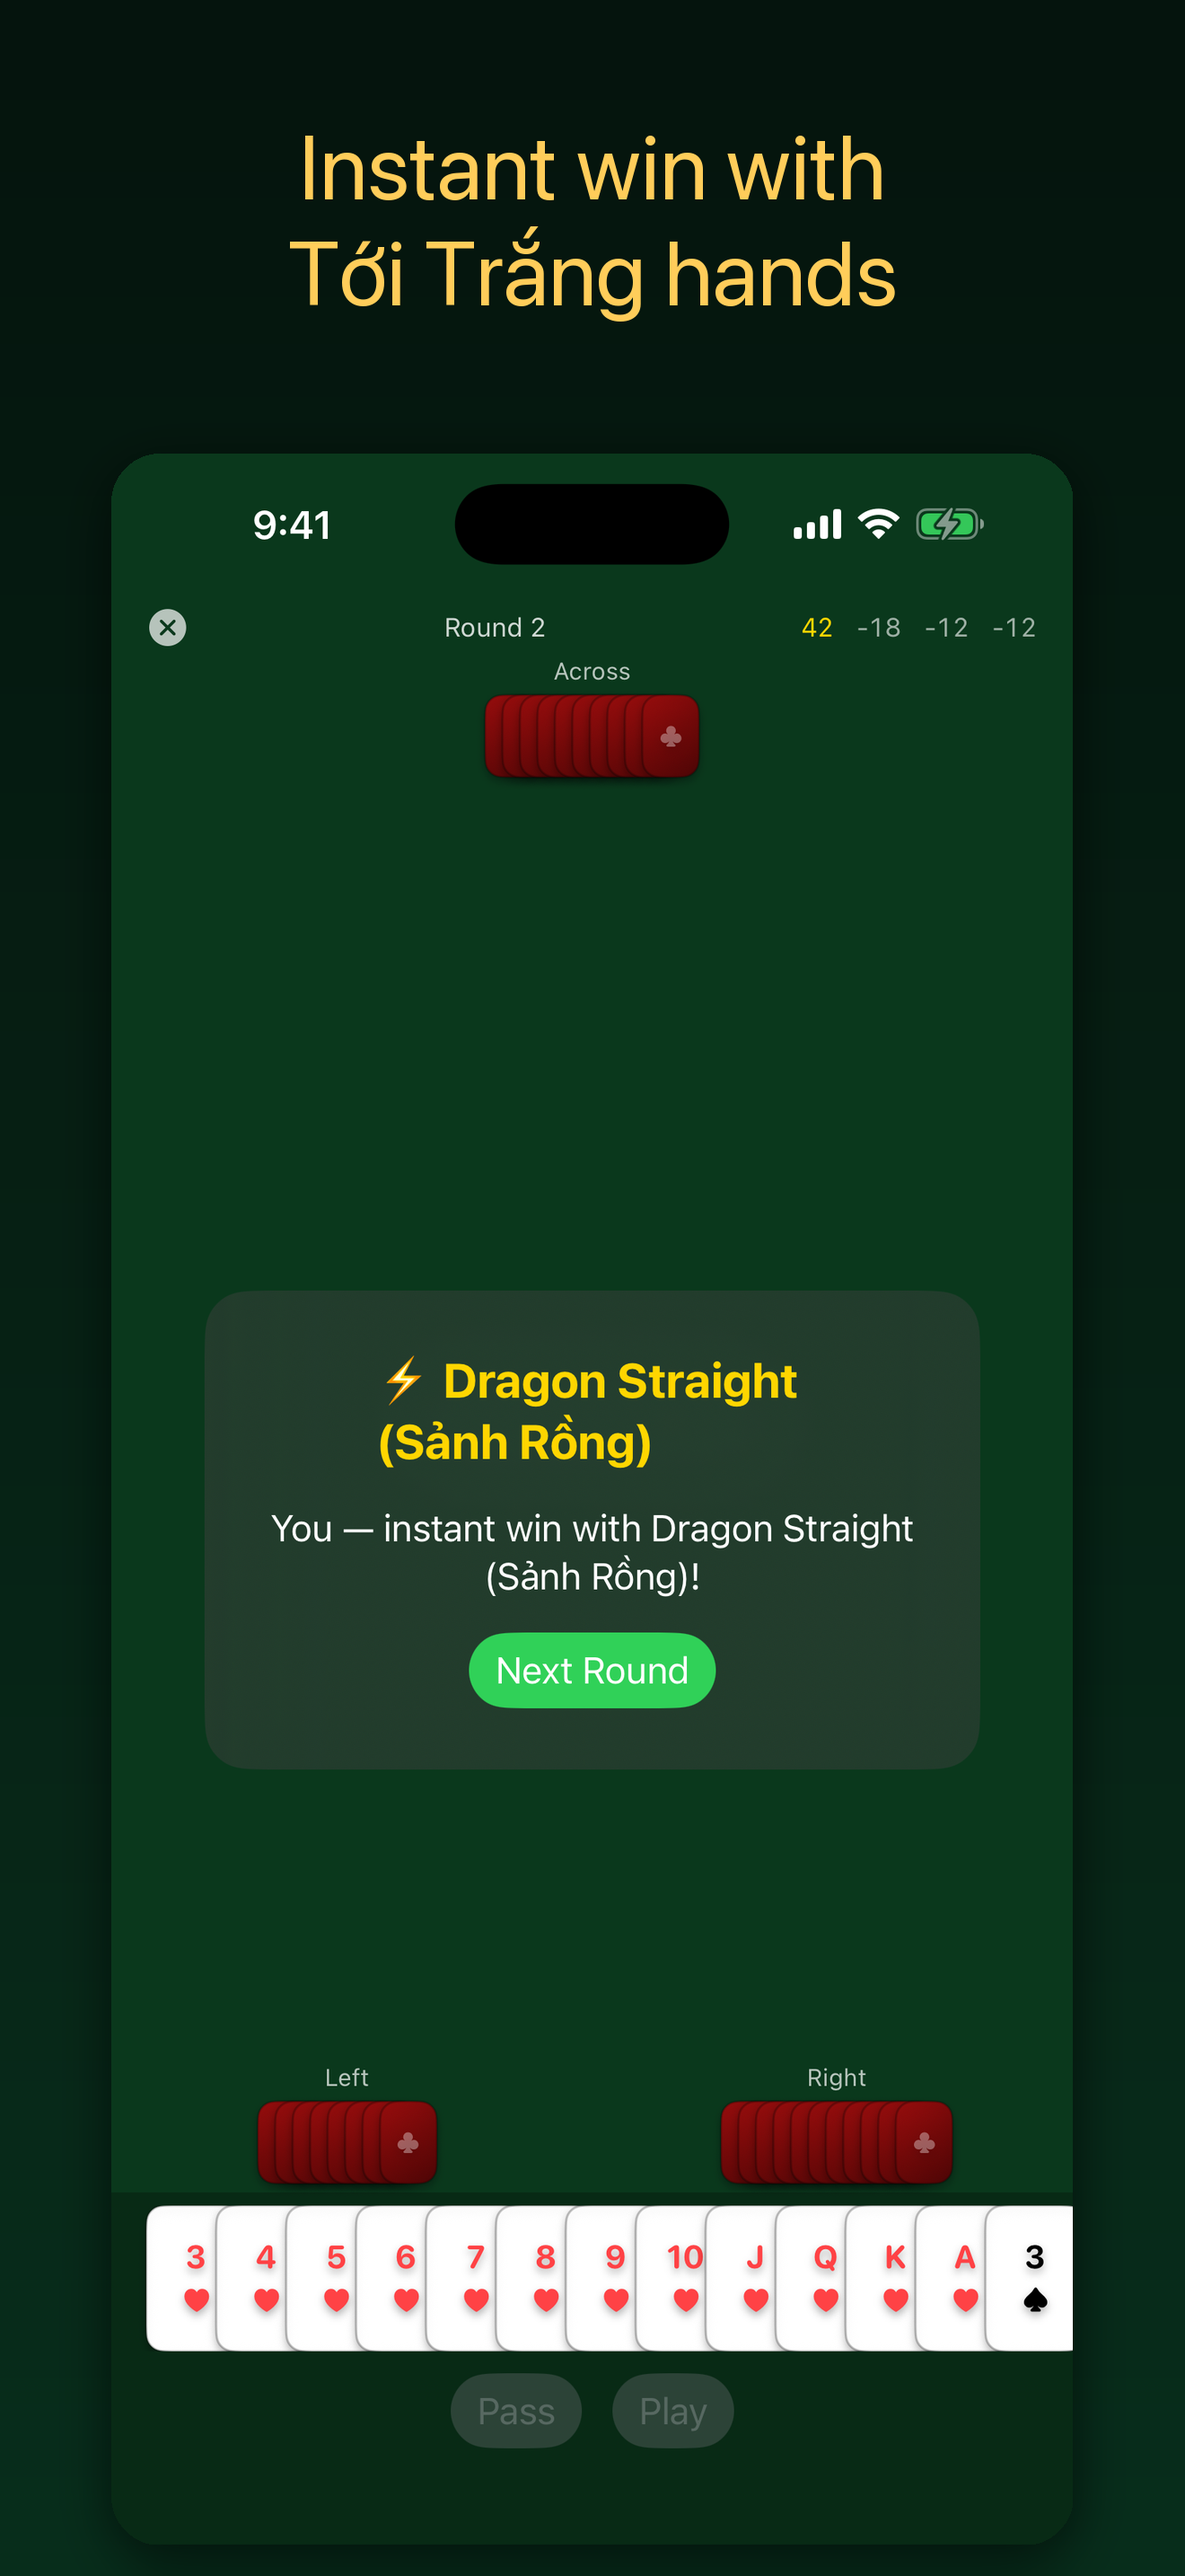
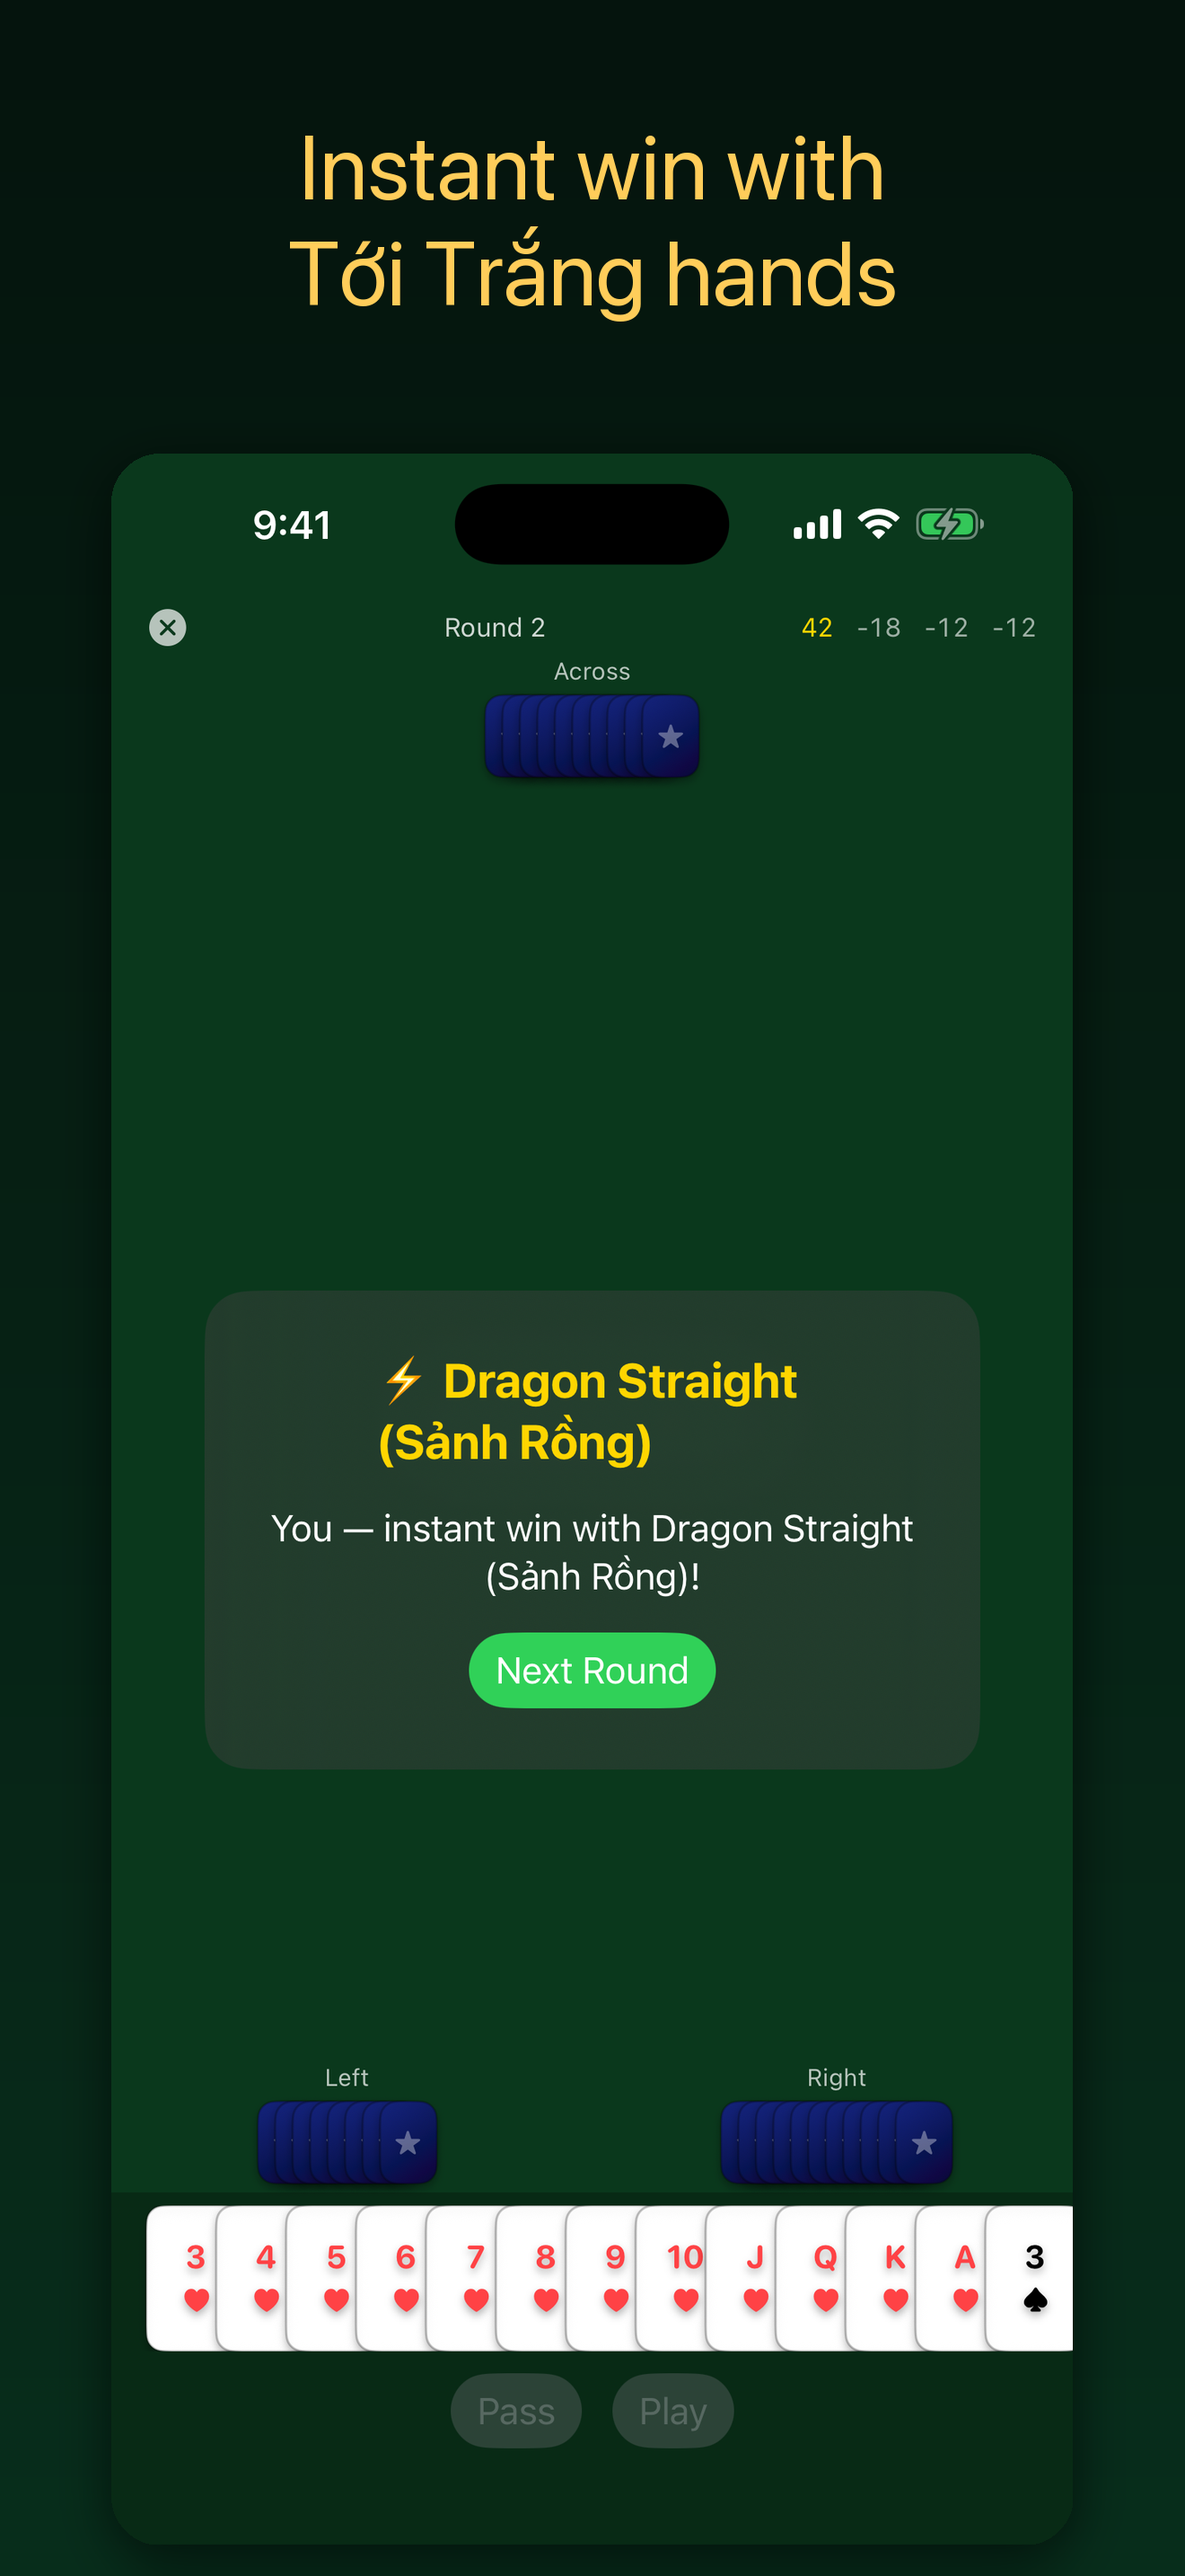
Second polish pass: re-verify card-back Pro feature, recapture stale screenshots, refresh ASO
Re-verified live in Simulator (not just code review) that the card-back Pro feature from the
2026-08-09 pass genuinely works end-to-end: picker renders in UpgradeView, selecting Royal Blue
actually changes opponents' face-down card rendering in GameView, and free users never see the
picker (gated behind purchases.isPro).

Fixed: screenshots/final/{en,vi}/04-upgrade.png were stale, predating the card-back picker;
recaptured all 10 shots. en-US App Store subtitle was accidentally Vietnamese (copy-paste from
vi); fixed to "Real Rules, Offline vs AI". Added the card-back feature to description/promo copy
in both locales since it wasn't mentioned anywhere despite being a real differentiator now.
Refreshed en-US keywords to drop name-redundant terms and add diaspora-relevant Vietnamese terms.

Version bump 1.0.1 -> 1.0.2 (build 3 -> 4); project.yml has both a project-level and
target-level MARKETING_VERSION/CURRENT_PROJECT_VERSION block, target-level wins, both updated
this time (project-level was silently inert on a previous pass).

Claude-Session: https://claude.ai/code/session_01VsdrBUt79dm3oQQCmfugXC

Changed region(s): [[0.5902, 0.8068, 0.8076, 0.8689], [0.4038, 0.2483, 0.5902, 0.3103], [0.2174, 0.8068, 0.3727, 0.8689]]

diff --git a/CLAUDE.md b/CLAUDE.md
@@ -8,15 +8,88 @@ background, but **do not assume its ruleset applies here**. The two games share 
 structure (4 players, combo-beating shedding, tới trắng instant wins, StoreKit Pro unlock,
 true bilingual UI) but the actual game logic genuinely differs in several places — see below.
 
-**Status: 🟡 READY FOR RESUBMISSION AFTER 2026-08-18 (pending Apple's Guideline 5.6 hold).**
-The whole developer account (19 apps, this one included) got hit with a Guideline 5.6
-"Developer Code of Conduct — Review Suspended" account-level flag, almost certainly
-triggered by submitting ~19 similar template-style apps within an 8-day window
-(2026-08-01–2026-08-08). Resubmission is hard-blocked until 2026-08-18 — do not attempt
-any App Store Connect action before then. Prior ASC state (now stale): app id `6796833065`,
-version `1.0.0` (id `3e15840d-4255-48f1-83fc-420fe8cf4ddf`), build
-`d8799eca-0a28-4ca1-be15-ebcd724bf213` attached, reviewSubmission
-`f59cb5d1-f8a5-4b84-b086-99e25942affd`. Release type: automatic (`AFTER_APPROVAL`).
+**Status: 🟡 READY FOR RESUBMISSION — scheduled batch 4, 2026-08-28 (pending Apple's Guideline
+5.6 hold clearing 2026-08-18).** The whole developer account (19 apps, this one included) got
+hit with a Guideline 5.6 "Developer Code of Conduct — Review Suspended" account-level flag,
+almost certainly triggered by submitting ~19 similar template-style apps within an 8-day window
+(2026-08-01–2026-08-08). Resubmission is hard-blocked until 2026-08-18 — do not attempt any
+App Store Connect submit/review-submission action before then (metadata/screenshot pushes are
+fine, per `~/Projects/app-store-rejections/NOTES.md`). ASC state as of this session's metadata
+push (2026-08-12): app id `6796833065`, version `1.0.2` (id
+`3e15840d-4255-48f1-83fc-420fe8cf4ddf`, state `REJECTED`, still editable). No build attached yet
+for 1.0.2 — that step (archive/export/upload via the pipeline below) still needs to happen before
+the batch-4 submission on 2026-08-28. Release type: automatic (`AFTER_APPROVAL`).
+
+## Polish pass (2026-08-12)
+
+Second, deeper pre-resubmission pass (first pass was 2026-08-09, see below). Scope: re-verify
+the 08-09 fixes are still solid, fix real UI/polish issues, refresh ASO copy. Nothing submitted
+to review — metadata/screenshot pushes only, per the resubmission-block rule.
+
+- **Card-back Pro feature re-verified live, with screenshot evidence — genuinely works.** This
+  was the highest-stakes check for this app (the 08-09 pass built a feature that had previously
+  been sold-but-never-built). Read the source end-to-end
+  (`CardBackStyle.swift`/`CardView.swift`/`GameView.swift`/`UpgradeView.swift`): `GameView`'s
+  `effectiveBackStyle` correctly falls back to Classic if a Pro style is selected without
+  `purchases.isPro`, and `UpgradeView` only renders the picker at all once `purchases.isPro` is
+  true — free users have no UI path to a Pro-only back. Then verified live in the simulator, not
+  just by reading code: launched with `TL_CAPTURE=upgrade`, confirmed the 3-swatch picker
+  (Classic Red / Royal Blue / Jade Bamboo) renders and is selectable; set
+  `defaults write com.quyenngo.tienlen cardBackStyle royal` and relaunched with
+  `TL_CAPTURE=midgame` — opponents' face-down hands actually rendered the Royal Blue design
+  (star icon, blue gradient) instead of the default red/club back. Confirmed genuinely wired,
+  not cosmetic-only.
+- **Bug found and fixed: `screenshots/final/{en,vi}/04-upgrade.png` were stale**, predating the
+  card-back picker (the 08-09 pass flagged this as an open, non-blocking item and never
+  recaptured). Recaptured all 10 shots via `capture_shots.py`
+  (`TL_DEVICE_UDID=<TienLen-Shots UDID>`); the new `04-upgrade.png` for both locales now shows
+  the picker, a genuine differentiator worth showing off. All 10 re-inspected visually — correct
+  diacritics, no clipping, no dead-space-below-bottom-control layout bug (checked for the
+  recurring class of bug found in other apps this session; not present here).
+- **Bug found and fixed: ASC en-US subtitle was in Vietnamese.** `LOCALES["en-US"]["subtitle"]`
+  in `asc_push_tienlen.py` was a copy-paste of the `vi` subtitle ("Chơi Tiến Lên Cùng AI"),
+  wasting a heavily search-weighted field on the English storefront. Changed to
+  "Real Rules, Offline vs AI" (25 chars).
+- **ASO refresh**: description/promo copy was already strong (accurate, specific ruleset detail,
+  not generic template filler) so left mostly as-is, but neither locale's description or promo
+  mentioned the card-back Pro feature even though it's now real — added a bullet to both
+  locales' description ("PLAY YOUR WAY" / "CHƠI THEO CÁCH CỦA BẠN") and a clause to both promo
+  texts. en-US keywords: dropped "vietnamese card game" and "card game" (redundant with the
+  indexed app name "Tiến Lên - Vietnamese Cards"), added "chặt heo,tới trắng" (present in the vi
+  keyword list already, high-value diaspora search terms, previously missing from en-US).
+- **Two push-script bugs found and fixed in `~/asc-tools/asc_push_tienlen.py`** (committed
+  separately in the asc-tools repo):
+  1. `find_or_create_version` hardcoded `versionString: "1.0.0"` unconditionally — every push
+     would silently force the ASC version back down to 1.0.0 regardless of the app's actual
+     local version (already 1.0.1 going into this session, now 1.0.2), which would have desynced
+     ASC from the built binary's `CFBundleShortVersionString` at submit time. Replaced with a
+     `VERSION_STRING` module constant kept in sync with `project.yml`.
+  2. `set_iap_localization` had no error handling, unlike its sibling `create_or_update_iap`
+     (which already degrades gracefully) — a locked `IAP_VERSION_UNMODIFIABLE` state (pre-existing
+     server-side, not caused by this session) crashed the whole script with an unhandled
+     `RuntimeError` before pricing ever ran. Wrapped in the same graceful-degradation pattern.
+  3. Also found (informational, not fixed — `find_app_info` only had one candidate `appInfo` to
+     choose from this time, so the "picks a locked one instead of REJECTED" failure mode from
+     Klotski's script didn't actually manifest here): verified via direct API query that this
+     app has exactly one `appInfo`, state `REJECTED`, so no ambiguity risk currently exists.
+- **Version bump**: `MARKETING_VERSION` 1.0.1 → **1.0.2**, `CURRENT_PROJECT_VERSION` 3 → **4**.
+  Note `project.yml` has both a project-level `settings.base` block and a target-level
+  `targets.TienLen.settings.base` block with their own copies of these two keys — XcodeGen's
+  target-level settings win, so **both** must be edited or the bump silently no-ops on the built
+  binary (the project-level block was already stale/inert from a previous pass). Confirmed via
+  `PlistBuddy` against the freshly built `.app`'s `Info.plist`: `CFBundleShortVersionString` =
+  1.0.2, `CFBundleVersion` = 4.
+- **Rebuilt clean after all changes**: `xcodegen generate` + `xcodebuild clean build` for
+  `platform=iOS Simulator,name=iPhone 17` — BUILD SUCCEEDED, zero warnings.
+- **Pushed to ASC**: app-level metadata (name/subtitle/privacy URL), categories, version
+  1.0.2 + both locales' description/keywords/promo/support URL, all 10 screenshots (order
+  verified), app base price (Free), IAP price ($2.99) — all confirmed via a follow-up
+  `asc_inspect_listing.py` read-back. IAP name/description localization patch was skipped
+  (pre-existing locked state, not something this session broke — the live IAP copy was already
+  accurate, mentioning card backs, from the 08-09 pass).
+- **No build uploaded this session** — out of scope for this pass (would require the
+  archive/export/upload pipeline below, which wasn't run since no submission is happening before
+  2026-08-18 anyway). Needs to happen before the 2026-08-28 batch-4 submission.
 
 ## 2026-08-09 pre-resubmission quality review
 
